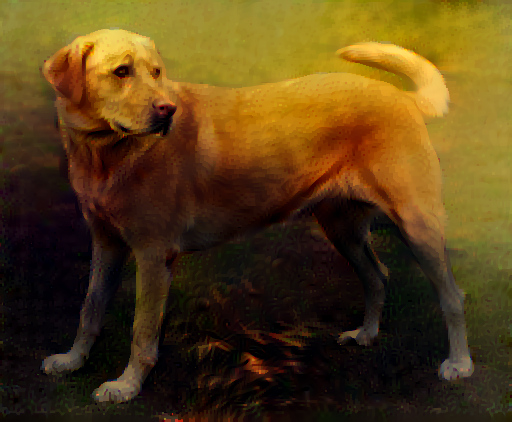
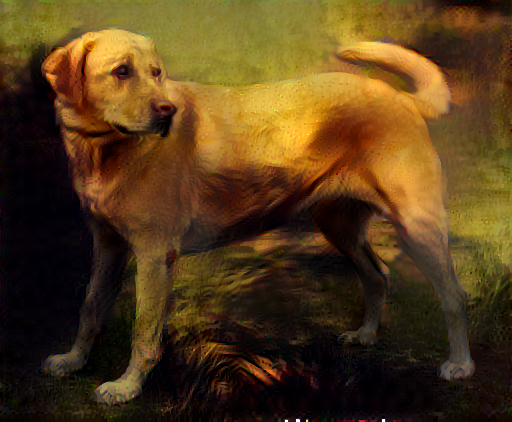
Refactoring & more examples

diff --git a/vgg_style_transfer.py b/vgg_style_transfer.py
@@ -82,9 +82,9 @@ style_targets = extractor(style_image)['style']
 content_targets = extractor(content_image)['content']
 image = tf.Variable(content_image)
 opt = tf.optimizers.Adam(learning_rate=0.02, beta_1=0.99, epsilon=1e-3)
-style_weight = 0.001
-content_weight = 15000
-total_variation_weight = 50
+style_weight = 0.01
+content_weight = 10000
+total_variation_weight = 15
 
 
 def train_step(image):
